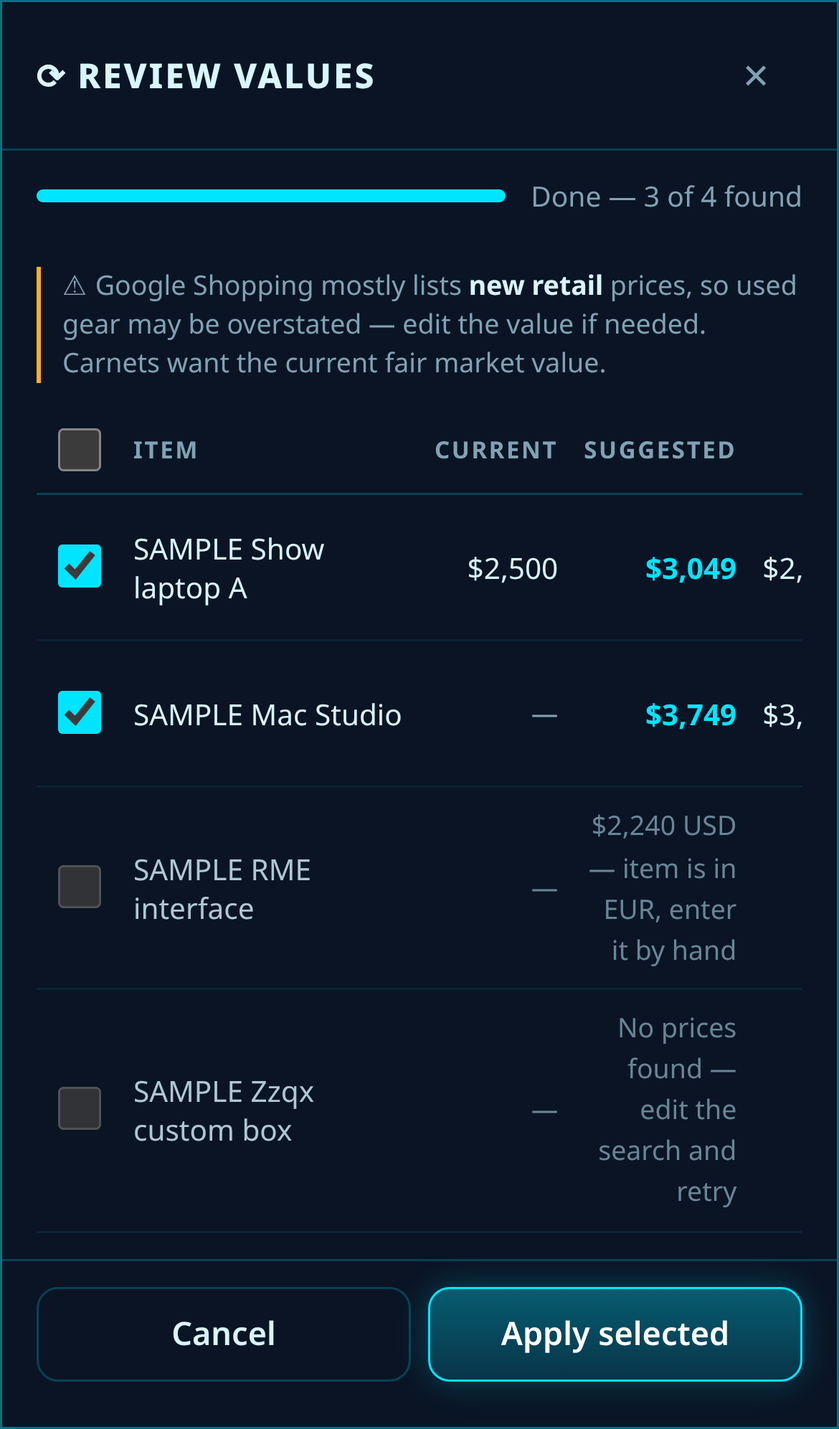
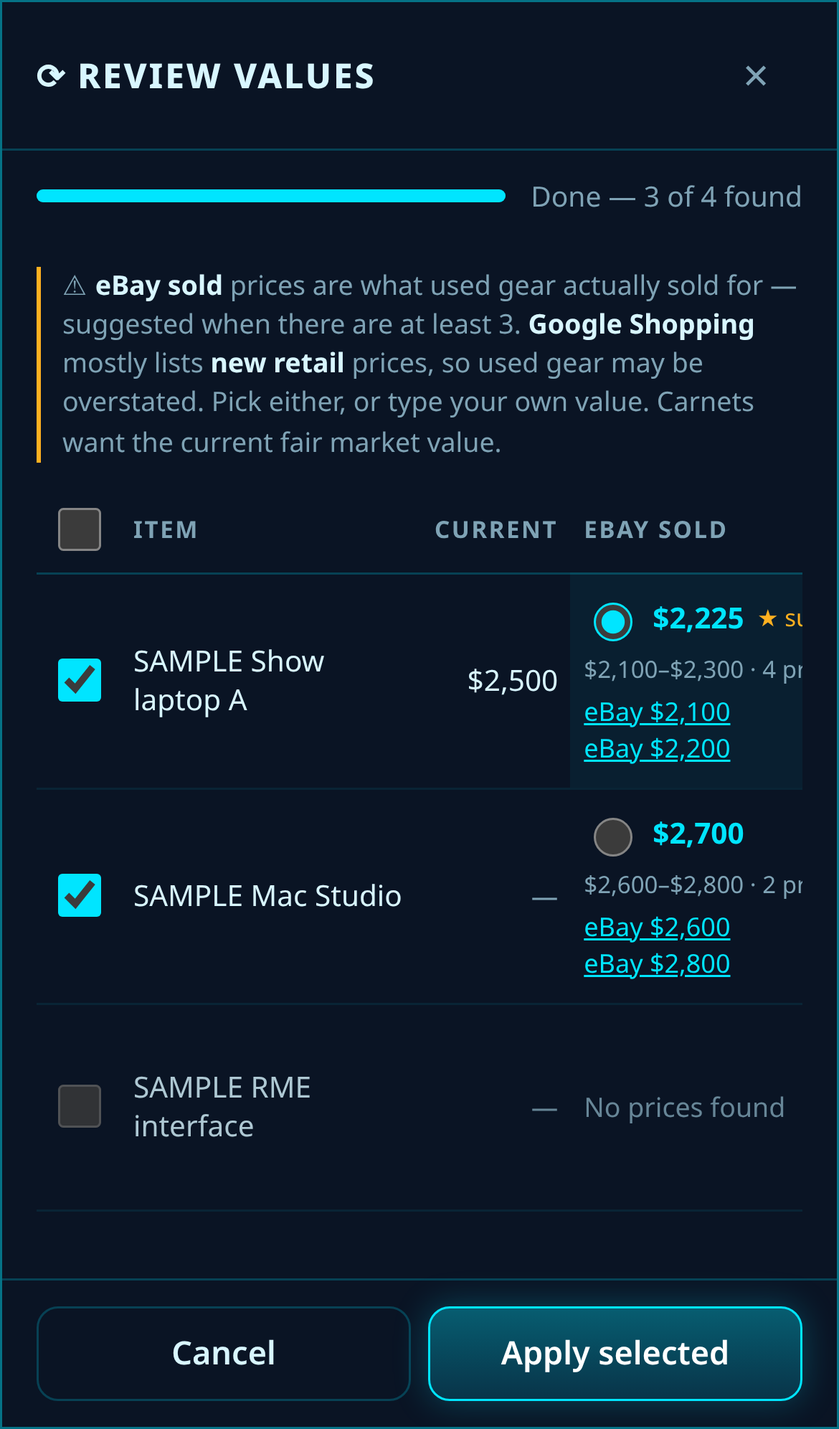
v2.3.0: two price sources (eBay sold + Google new), source toggle, pick/own value in review, README, zip, screenshots

diff --git a/js/app.js b/js/app.js
@@ -294,7 +294,7 @@ function openItemEditor(item, isNew = false, { returnTo = null } = {}) {
       ${f('vendor', 'Vendor', 'placeholder="Store / seller" list="dl-vendors" autocomplete="off"')}
       ${f('currentValue', 'Current value (each) — overrides price on carnets', 'type="number" inputmode="decimal" step="0.01" min="0" placeholder="Defaults to purchase price"', 'span2')}
       <div class="span2" style="align-self:center"><p class="hint">Carnets need the <b>current fair market value</b>, not what you paid. Leave blank to use the purchase price.</p>
-        <div class="row wrap" style="margin-top:6px"><button class="btn sm" type="button" data-act="fmvItem" ${readOnly() ? 'disabled' : ''}>⟳ Look up value</button><span class="hint">1 SerpApi search · you review first</span></div>
+        <div class="row wrap" style="margin-top:6px"><button class="btn sm" type="button" data-act="fmvItem" ${readOnly() ? 'disabled' : ''}>⟳ Look up value</button><span class="hint">eBay sold + Google · you review first</span></div>
         <p class="hint fmvinfo" id="fmvInfo"></p></div>
     </div></div>
     <div class="section"><div class="lbl">Carnet / customs</div><div class="grid4">
@@ -326,14 +326,15 @@ const FMV_ERR = {
   bad_key: 'SerpApi rejected the API key — check the SERPAPI_KEY secret.', quota: 'SerpApi search quota used up for this month.',
   mfa_required: 'Two-factor verification is required — sign out and back in.', unauthorized: 'Session expired — sign in again.',
   timeout: 'SerpApi timed out — retry.', upstream: 'SerpApi error — retry later.', skipped: 'Skipped (lookups stopped).', bad_item: 'Empty search text.',
-  network: 'Could not reach the lookup function.',
+  network: 'Could not reach the lookup function.', no_results: 'No listings found', sold_unavailable: 'Sold listings unavailable (eBay restricts them)',
 };
 const fmvErrText = c => FMV_ERR[c] || esc(c || 'Lookup failed');
+let fmvSrcPref = ['ebay_sold', 'google_new'];
 function setFmvButtons() { $$('[data-act=fmvOpen],[data-act=fmvItem]').forEach(b => { b.disabled = readOnly(); b.title = readOnly() ? 'Needs a connection' : ''; }); }
 /** Call fmv-lookup for [{item_id, query}] (≤ MAX_PER_CALL). Returns { results } or throws { code }. */
-async function fmvInvoke(list) {
+async function fmvInvoke(list, sources) {
   if (isOffline() || !sb) throw Object.assign(new Error('offline'), { code: 'network' });
-  const { data, error } = await sb.functions.invoke('fmv-lookup', { body: { items: list } });
+  const { data, error } = await sb.functions.invoke('fmv-lookup', { body: { items: list, sources } });
   if (error) {
     let code = 'network', body = null;
     try { body = await error.context?.json?.(); } catch { /* not json */ }
@@ -342,27 +343,29 @@ async function fmvInvoke(list) {
   }
   return data;
 }
-async function fmvRunRows(rows, onProgress) {
-  let done = 0;
-  for (let ix = 0; ix < rows.length; ix += Fmv.MAX_PER_CALL) {
-    const batch = rows.slice(ix, ix + Fmv.MAX_PER_CALL).filter(r => r.query);
-    rows.slice(ix, ix + Fmv.MAX_PER_CALL).filter(r => !r.query).forEach(r => { r.res = { error: 'bad_item' }; });
+const fmvPrep = (r, x, at) => { r.res = { ...x, checked_at: at }; r.pick = x?.suggested || null; r.checked = !!r.pick; };
+async function fmvRunRows(rows, sources, onProgress) {
+  const N = Fmv.MAX_PER_CALL;
+  for (let ix = 0; ix < rows.length; ix += N) {
+    const chunk = rows.slice(ix, ix + N), batch = chunk.filter(r => r.query);
+    chunk.filter(r => !r.query).forEach(r => { r.res = { error: 'bad_item' }; });
     if (batch.length) {
       try {
-        const data = await fmvInvoke(batch.map(r => ({ item_id: r.id, query: r.query })));
+        const data = await fmvInvoke(batch.map(r => ({ item_id: r.id, query: r.query })), sources);
         const by = new Map((data?.results || []).map(x => [x.item_id, x]));
-        batch.forEach(r => { r.res = by.get(r.id) || { error: 'upstream' }; r.res.checked_at = data?.checked_at; });
+        batch.forEach(r => fmvPrep(r, by.get(r.id) || { error: 'upstream' }, data?.checked_at));
       } catch (e) {
         batch.forEach(r => { r.res = { error: e.code }; });
-        if (['missing_key', 'mfa_required', 'unauthorized', 'network'].includes(e.code)) { rows.slice(ix + Fmv.MAX_PER_CALL).forEach(r => { r.res = { error: e.code }; }); onProgress(rows.length, e.code); return e.code; }
+        if (['missing_key', 'mfa_required', 'unauthorized', 'network'].includes(e.code)) { rows.slice(ix + N).forEach(r => { r.res = { error: e.code }; }); onProgress(rows.length); return e.code; }
       }
     }
-    done = Math.min(rows.length, ix + Fmv.MAX_PER_CALL); onProgress(done);
-    if (rows.slice(0, done).some(r => r.res?.error === 'quota' || r.res?.error === 'bad_key')) { rows.slice(done).forEach(r => { r.res = { error: 'skipped' }; }); onProgress(rows.length); return 'stopped'; }
+    onProgress(Math.min(rows.length, ix + N));
+    const stop = rows.slice(0, ix + N).find(r => r.res?.stop)?.res.stop;
+    if (stop) { rows.slice(ix + N).forEach(r => { r.res = { error: 'skipped' }; }); onProgress(rows.length); return stop; }
   }
   return null;
 }
-const FMV_NOTE = '<p class="hint fmvnote">⚠ Google Shopping mostly lists <b>new retail</b> prices, so used gear may be overstated — edit the value if needed. Carnets want the current fair market value.</p>';
+const FMV_NOTE = '<p class="hint fmvnote">⚠ <b>eBay sold</b> prices are what used gear actually sold for — suggested when there are at least 3. <b>Google Shopping</b> mostly lists <b>new retail</b> prices, so used gear may be overstated. Pick either, or type your own value. Carnets want the current fair market value.</p>';
 function fmvOpen() {
   const all = S.items, filt = filteredItems(), noVal = S.items.filter(i => i.currentValue == null);
   const o = openLayer(`<div class="sheet-h"><div class="title">⟳ UPDATE VALUES</div><button class="iconbtn" data-close aria-label="Close">✕</button></div>
@@ -372,63 +375,77 @@ function fmvOpen() {
       <label class="radio"><input type="radio" name="fmvScope" value="novalue"> Items without a current value <small>(${noVal.length})</small></label>
       <label class="radio"><input type="checkbox" id="fmvInstalled"> Include parts marked <b>installed</b> (RAM, drives…)</label>
       <label class="radio"><input type="checkbox" id="fmvInactive"> Include sold / retired gear</label></div>
+    <div class="section"><div class="lbl">Price sources</div>
+      <label class="radio"><input type="checkbox" data-fmvsrc="ebay_sold" ${fmvSrcPref.includes('ebay_sold') ? 'checked' : ''}> eBay sold listings <small>(used — what it actually sold for)</small></label>
+      <label class="radio"><input type="checkbox" data-fmvsrc="google_new" ${fmvSrcPref.includes('google_new') ? 'checked' : ''}> Google Shopping <small>(mostly new retail)</small></label></div>
     <p class="hint" id="fmvCount"></p>
-    <p class="hint">Each item uses <b>1 SerpApi search</b>; the free plan allows about <b>100 searches a month</b>. Nothing changes until you review and apply.</p>
-    ${FMV_NOTE}
+    <p class="hint">Each source costs <b>1 SerpApi search per item</b> (both = 2 per item); the free plan allows about <b>100 searches a month</b>. Nothing changes until you review and apply.</p>
     <div class="row"><button class="btn ghost grow" data-close>Cancel</button><button class="btn primary grow" id="fmvGo">Look up values</button></div>`, { cls: 'small' });
+  const srcs = () => $$('[data-fmvsrc]:checked', o).map(x => x.dataset.fmvsrc);
   const pick = () => {
     const sc = $('input[name=fmvScope]:checked', o).value, inst = $('#fmvInstalled', o).checked, inact = $('#fmvInactive', o).checked;
     return (sc === 'filtered' ? filt : sc === 'novalue' ? noVal : all).filter(i => (inst || P.partTypeOf(i) !== 'installed') && (inact || inService(i)));
   };
-  const upd = () => { const n = pick().length; $('#fmvCount', o).innerHTML = `<b>${plural(n, 'item')}</b> → ${n} search${n === 1 ? '' : 'es'}`; $('#fmvGo', o).disabled = !n; };
+  const upd = () => { const n = pick().length, k = Fmv.searchesPerItem(srcs()), m = n * k; $('#fmvCount', o).innerHTML = `<b>${plural(n, 'item')}</b> × ${k} = <b>${m} search${m === 1 ? '' : 'es'}</b>`; $('#fmvGo', o).disabled = !n || !k; };
   o.addEventListener('change', upd); upd();
   o.addEventListener('click', e => {
     if (e.target.closest('[data-close]')) return closeLayer(o);
-    if (e.target.closest('#fmvGo')) { const list = pick(); closeLayer(o, true); fmvReview(list.map(i => ({ id: i.id, query: Fmv.buildQuery(i), checked: false, res: null }))); }
+    if (e.target.closest('#fmvGo')) { const list = pick(); fmvSrcPref = srcs(); closeLayer(o, true); fmvReview(list.map(i => ({ id: i.id, query: Fmv.buildQuery(i), res: null })), null, fmvSrcPref); }
   });
 }
-/** Review table. rows: [{id, query, res, checked}]. single = { d } when launched from the editor (applies to the draft). */
-function fmvReview(rows, single = null) {
+/** Review table. rows: [{id, query, res, pick, custom, checked}]. single = { d } when launched from the editor (applies to the draft). */
+function fmvReview(rows, single = null, sources = fmvSrcPref) {
   const item = r => (single ? single.d : itemById(r.id));
+  const usd = it => (it.currency || 'USD') === 'USD';
+  const has = (x, k) => !!(x && x[k] && !x[k].error && x[k].median != null);
+  const chosen = r => { const x = r.res; if (!x || x.error && !x.suggested) return null; if (r.pick === 'manual') return Store.parseNum(r.custom); return has(x, r.pick) ? Fmv.applyValue(x[r.pick].median) : null; };
+  const fmvOk = r => { const it = item(r); return !!(it && usd(it) && chosen(r) != null && chosen(r) >= 0); };
   const o = openLayer(`<div class="sheet-h"><div class="title">⟳ REVIEW VALUES</div><button class="iconbtn" data-close aria-label="Close">✕</button></div>
     <div id="fmvProg" class="fmvprog"><div class="bar"><i style="width:0%"></i></div><span>Looking up 0 / ${rows.length}…</span></div>
     <div id="fmvMsg"></div>${FMV_NOTE}
-    <div class="fmvwrap"><table class="fmvt"><thead><tr><th><input type="checkbox" id="fmvAll" aria-label="Select all"></th><th>Item</th><th class="r">Current</th><th class="r">Suggested</th><th class="r">Range</th><th class="r">#</th><th>Sources</th><th>Search</th></tr></thead><tbody id="fmvBody"></tbody></table></div>
+    <div class="fmvwrap"><table class="fmvt"><thead><tr><th><input type="checkbox" id="fmvAll" aria-label="Select all"></th><th>Item</th><th class="r">Current</th>${sources.includes('ebay_sold') ? '<th>eBay sold</th>' : ''}${sources.includes('google_new') ? '<th>Google new</th>' : ''}<th>Use</th><th>Search</th></tr></thead><tbody id="fmvBody"></tbody></table></div>
     <div class="sheet-f"><span class="hint grow" id="fmvSel"></span><button class="btn ghost" data-close>Cancel</button><button class="btn primary" id="fmvApply" disabled>Apply selected</button></div>`, { cls: 'wide' });
   o._rows = rows;
-  const fmvOk = r => { const it = item(r); return !!(it && r.res && !r.res.error && r.res.median != null && (it.currency || 'USD') === 'USD'); };
+  const srcCell = (r, k) => {
+    const x = r.res; if (!x || r.busy) return '<td class="sc"><span class="hint">…</span></td>';
+    const b = x[k]; if (!b) return `<td class="sc">${x.error ? `<span class="fmverr">${fmvErrText(x.error)}</span>` : '<span class="hint">—</span>'}</td>`;
+    if (b.error || b.median == null) return `<td class="sc"><span class="hint">${b.error ? fmvErrText(b.error) : 'No prices found'}</span></td>`;
+    const links = (b.sources || []).map(s => `<a href="${esc(s.link)}" target="_blank" rel="noopener noreferrer" title="${esc(s.title)}">${esc(s.source || 'link')} ${money(s.price, 'USD', false)}</a>`).join('');
+    return `<td class="sc ${x.suggested === k ? 'sugg' : ''}"><label class="pickv"><input type="radio" name="fmvp${r.ix}" value="${k}" ${r.pick === k ? 'checked' : ''}> <b>${money(Fmv.applyValue(b.median), 'USD', false)}</b>${x.suggested === k ? ' <span class="star">★ suggested</span>' : ''}</label>
+      <small>${money(b.low, 'USD', false)}–${money(b.high, 'USD', false)} · ${plural(b.count, 'price')}</small>${links}</td>`;
+  };
   const rowHTML = (r, ix) => {
-    const it = item(r); if (!it) return '';
-    const x = r.res, busy = r.busy || !x, usd = (it.currency || 'USD') === 'USD', okRes = x && !x.error && x.median != null && usd;
-    const src = okRes ? (x.sources || []).map(s => `<a href="${esc(s.link)}" target="_blank" rel="noopener noreferrer" title="${esc(s.title)}">${esc(s.source || 'link')} ${money(s.price, 'USD', false)}</a>`).join('') : '';
-    const status = busy ? '<span class="hint">…</span>' : x.error ? `<span class="fmverr">${fmvErrText(x.error)}</span>` : x.median == null ? '<span class="hint">No prices found — edit the search and retry</span>' : !usd ? `<span class="hint">${money(x.median, 'USD', false)} USD — item is in ${esc(it.currency)}, enter it by hand</span>` : '';
-    return `<tr data-ix="${ix}" class="${okRes ? '' : 'nores'}">
-      <td><input type="checkbox" data-fmvck ${okRes ? '' : 'disabled'} ${r.checked && okRes ? 'checked' : ''} aria-label="Apply"></td>
+    r.ix = ix; const it = item(r); if (!it) return '';
+    const x = r.res, done = x && !r.busy, ok = done && fmvOk(r);
+    const note = !done ? '' : !usd(it) ? `<span class="hint">Item is in ${esc(it.currency)} — prices are USD, enter by hand</span>` : x.error && !x.suggested && !x.ebay_sold && !x.google_new ? '' : !x.suggested ? '<span class="hint">No prices — edit the search and retry, or type a value</span>' : '';
+    return `<tr data-ix="${ix}" class="${ok ? '' : 'nores'}">
+      <td><input type="checkbox" data-fmvck ${ok ? '' : 'disabled'} ${r.checked && ok ? 'checked' : ''} aria-label="Apply"></td>
       <td class="nm">${esc(itemTitle(it))}${it.fmv?.checkedAt ? `<small>checked ${esc(fmvDate(it.fmv.checkedAt))}</small>` : ''}</td>
       <td class="r">${it.currentValue != null ? money(Store.parseNum(it.currentValue), it.currency, false) : '<span class="hint">—</span>'}</td>
-      <td class="r sug">${okRes ? money(Fmv.applyValue(x.median), 'USD', false) : status}</td>
-      <td class="r">${okRes ? `${money(x.low, 'USD', false)}–${money(x.high, 'USD', false)}` : ''}</td>
-      <td class="r">${okRes ? x.count : ''}</td>
-      <td class="src">${src}</td>
-      <td class="q"><div class="joined"><input class="inp" data-fmvq value="${esc(r.query)}" maxlength="${Fmv.MAX_QUERY}" aria-label="Search text"><button class="btn sm ghost" data-fmvretry title="Search again (1 search)">↻</button></div></td></tr>`;
+      ${sources.includes('ebay_sold') ? srcCell(r, 'ebay_sold') : ''}${sources.includes('google_new') ? srcCell(r, 'google_new') : ''}
+      <td class="use">${done && usd(it) ? `<label class="pickv"><input type="radio" name="fmvp${ix}" value="manual" ${r.pick === 'manual' ? 'checked' : ''}> Own</label><input class="inp sm" data-fmvcustom type="number" min="0" step="1" inputmode="numeric" value="${esc(r.custom ?? '')}" placeholder="$" aria-label="Your value"><div class="usev">${ok ? `→ <b>${money(chosen(r), 'USD', false)}</b>` : ''}</div>` : ''}${note}</td>
+      <td class="q"><div class="joined"><input class="inp" data-fmvq value="${esc(r.query)}" maxlength="${Fmv.MAX_QUERY}" aria-label="Search text"><button class="btn sm ghost" data-fmvretry title="Search again (${Fmv.searchesPerItem(sources)} search${Fmv.searchesPerItem(sources) === 1 ? '' : 'es'})">↻</button></div></td></tr>`;
   };
-  const paint = () => {
-    $('#fmvBody', o).innerHTML = rows.map(rowHTML).join('');
-    const sel = rows.filter(r => r.checked && fmvOk(r));
-    $('#fmvSel', o).textContent = `${sel.length} of ${rows.length} selected`; $('#fmvApply', o).disabled = !sel.length || readOnly();
-  };
+  const foot = () => { const sel = rows.filter(r => r.checked && fmvOk(r)); $('#fmvSel', o).textContent = `${sel.length} of ${rows.length} selected`; $('#fmvApply', o).disabled = !sel.length || readOnly(); };
+  const paint = () => { $('#fmvBody', o).innerHTML = rows.map(rowHTML).join(''); foot(); };
+  const paintRow = r => { const tr = $(`#fmvBody tr[data-ix="${r.ix}"]`, o); if (tr) tr.outerHTML = rowHTML(r, r.ix); foot(); };
   const msg = code => { $('#fmvMsg', o).innerHTML = code ? `<p class="warn">${fmvErrText(code)}</p>` : ''; };
-  const prog = (n, code) => {
+  const prog = n => {
     const p = $('#fmvProg', o); if (!p) return;
-    $('i', p).style.width = `${Math.round(100 * n / rows.length)}%`; $('span', p).textContent = n >= rows.length ? `Done — ${rows.filter(r => r.res && !r.res.error && r.res.median != null).length} of ${rows.length} found` : `Looking up ${n} / ${rows.length}…`;
-    rows.forEach(r => { if (r.res && r.checked == null) r.checked = fmvOk(r); }); if (code) msg(code); paint();
+    $('i', p).style.width = `${Math.round(100 * n / rows.length)}%`; $('span', p).textContent = n >= rows.length ? `Done — ${rows.filter(r => r.res?.suggested).length} of ${rows.length} found` : `Looking up ${n} / ${rows.length}…`;
+    paint();
   };
-  rows.forEach(r => { r.checked = null; });
-  paint(); fmvRunRows(rows, prog).then(code => { if (code && code !== 'stopped') msg(code); else if (code === 'stopped') msg(rows.find(r => r.res?.error === 'quota') ? 'quota' : 'bad_key'); });
-  o.addEventListener('input', e => { const q = e.target.closest('[data-fmvq]'); if (q) rows[+q.closest('tr').dataset.ix].query = Fmv.cleanQuery(q.value); });
+  paint(); fmvRunRows(rows, sources, prog).then(code => { if (code) msg(code); });
+  o.addEventListener('input', e => {
+    const q = e.target.closest('[data-fmvq]'); if (q) { rows[+q.closest('tr').dataset.ix].query = Fmv.cleanQuery(q.value); return; }
+    const c = e.target.closest('[data-fmvcustom]');
+    if (c) { const r = rows[+c.closest('tr').dataset.ix]; r.custom = c.value; r.pick = 'manual'; r.checked = c.value !== ''; const tr = c.closest('tr'); $('input[value=manual]', tr).checked = true; $('[data-fmvck]', tr).disabled = !fmvOk(r); $('[data-fmvck]', tr).checked = r.checked && fmvOk(r); $('.usev', tr).innerHTML = fmvOk(r) ? `→ <b>${money(chosen(r), 'USD', false)}</b>` : ''; foot(); }
+  });
   o.addEventListener('change', e => {
     if (e.target.id === 'fmvAll') { rows.forEach(r => { r.checked = e.target.checked; }); return paint(); }
-    const c = e.target.closest('[data-fmvck]'); if (c) { rows[+c.closest('tr').dataset.ix].checked = c.checked; paint(); }
+    const tr = e.target.closest('tr[data-ix]'); if (!tr) return; const r = rows[+tr.dataset.ix];
+    if (e.target.matches('[data-fmvck]')) { r.checked = e.target.checked; return foot(); }
+    if (e.target.type === 'radio') { r.pick = e.target.value; r.checked = fmvOk(r); paintRow(r); if (r.pick === 'manual') $(`#fmvBody tr[data-ix="${r.ix}"] [data-fmvcustom]`, o)?.focus(); }
   });
   o.addEventListener('click', async e => {
     if (e.target.closest('[data-close]')) return closeLayer(o);
@@ -436,18 +453,20 @@ function fmvReview(rows, single = null) {
     if (rb) {
       if (readOnly()) return toast('Offline — reconnect to look up values');
       const r = rows[+rb.closest('tr').dataset.ix]; if (!r.query) return toast('Enter search text first');
-      r.busy = true; paint(); msg('');
-      try { const d = await fmvInvoke([{ item_id: r.id, query: r.query }]); r.res = { ...(d.results || [])[0], checked_at: d.checked_at }; }
+      r.busy = true; paintRow(r); msg('');
+      try { const d = await fmvInvoke([{ item_id: r.id, query: r.query }], sources); fmvPrep(r, (d.results || [])[0] || { error: 'upstream' }, d.checked_at); if (r.res.stop) msg(r.res.stop); }
       catch (er) { r.res = { error: er.code }; msg(er.code); }
-      r.busy = false; r.checked = fmvOk(r); paint(); return;
+      r.busy = false; paintRow(r); return;
     }
     if (e.target.closest('#fmvApply')) {
       if (readOnly()) return toast('Offline — read-only. Reconnect to make changes.');
       const sel = rows.filter(r => r.checked && fmvOk(r)); let n = 0;
       for (const r of sel) {
-        const it = item(r); if (!it) continue; const x = r.res;
-        it.currentValue = Fmv.applyValue(x.median);
-        it.fmv = Store.sanitizeFmv({ value: x.median, low: x.low, high: x.high, count: x.count, checkedAt: x.checked_at || new Date().toISOString(), query: r.query, sources: x.sources });
+        const it = item(r); if (!it) continue; const x = r.res, b = r.pick !== 'manual' ? x[r.pick] : null, v = chosen(r);
+        const bySource = Object.fromEntries(Fmv.SOURCES.filter(k => has(x, k)).map(k => [k, { median: x[k].median, low: x[k].low, high: x[k].high, count: x[k].count, sources: x[k].sources }]));
+        it.currentValue = v;
+        it.fmv = Store.sanitizeFmv({ value: b ? b.median : v, low: b ? b.low : null, high: b ? b.high : null, count: b ? b.count : 0, pick: r.pick,
+          checkedAt: x.checked_at || new Date().toISOString(), query: r.query, sources: b ? b.sources : [], bySource });
         if (!single) it.updated = Date.now();
         n++;
       }
@@ -458,13 +477,14 @@ function fmvReview(rows, single = null) {
   });
 }
 function renderFmvInfo() {
-  const el = $('#fmvInfo'); if (!el || !ui.edit) return; const f = ui.edit.d.fmv;
-  el.innerHTML = f ? `Value checked ${esc(fmvDate(f.checkedAt))}: median ${money(f.value, 'USD', false)} (${money(f.low, 'USD', false)}–${money(f.high, 'USD', false)}, ${plural(f.count, 'result')})${f.sources?.length ? ' · ' + f.sources.filter(s => s.link).map(s => `<a href="${esc(s.link)}" target="_blank" rel="noopener noreferrer">${esc(s.source || 'link')}</a>`).join(' ') : ''}` : '';
+  const el = $('#fmvInfo'); if (!el || !ui.edit) return; const f = ui.edit.d.fmv; if (!f) { el.innerHTML = ''; return; }
+  const part = k => { const b = f.bySource?.[k]; return b ? `${Fmv.SOURCE_LABEL[k]} ${money(b.median, 'USD', false)} (${money(b.low, 'USD', false)}–${money(b.high, 'USD', false)}, ${plural(b.count, 'price')})` : ''; };
+  el.innerHTML = `Value checked ${esc(fmvDate(f.checkedAt))} · used ${f.pick === 'manual' ? 'your own value' : esc(Fmv.SOURCE_LABEL[f.pick] || '')}${['ebay_sold', 'google_new'].map(part).filter(Boolean).map(t => ' · ' + t).join('')}${f.sources?.length ? '<br>' + f.sources.filter(s => s.link).map(s => `<a href="${esc(s.link)}" target="_blank" rel="noopener noreferrer">${esc(s.source || 'link')}</a>`).join(' ') : ''}`;
 }
 function fmvItem() {
   const E = ui.edit; if (!E) return;
   const q = Fmv.buildQuery(E.d); if (!q) return toast('Enter a make, model or name first');
-  fmvReview([{ id: E.d.id, query: q, res: null }], { d: E.d });
+  fmvReview([{ id: E.d.id, query: q, res: null }], { d: E.d }, fmvSrcPref);
 }
 // ----- parts (v2.2) -----
 const editSig = E => JSON.stringify([E.d, [...E.kits].sort(), E.newAtts, E.pendingDel]);

diff --git a/css/app.css b/css/app.css
@@ -387,3 +387,10 @@ body.readonly #addBtn, body.readonly [data-act=newItem], body.readonly [data-act
 .fmverr { color: var(--amber); font-size: 12.5px; } .fmverr a, .warn a, .fmvinfo a { color: var(--cyan); }
 .fmvinfo { margin-top: 6px; } .fmvinfo a { margin-right: 6px; }
 .g-val .fmvchk { color: var(--dim); font-size: 10.5px; }
+.fmvt .sc { min-width: 150px; } .fmvt .sc small { display: block; color: var(--dim); font-size: 11px; margin: 2px 0 3px; }
+.fmvt .sc.sugg { background: rgba(0, 229, 255, .06); }
+.fmvt .pickv { display: inline-flex; align-items: center; gap: 6px; cursor: pointer; white-space: nowrap; } .fmvt .pickv b { color: var(--cyan); }
+.fmvt .pickv input[type=radio] { width: 18px; height: 18px; accent-color: var(--cyan); }
+.fmvt .star { color: var(--amber); font-size: 11px; }
+.fmvt .use { min-width: 110px; } .fmvt .use .inp.sm { min-height: 34px; width: 96px; font-size: 13px; margin-top: 4px; } .fmvt .usev { font-size: 12px; margin-top: 3px; } .fmvt .usev b { color: var(--cyan); }
+.fmvt .sc a { display: block; font-size: 12px; color: var(--cyan); white-space: nowrap; overflow: hidden; text-overflow: ellipsis; max-width: 170px; }

diff --git a/README.md b/README.md
@@ -132,22 +132,26 @@ which only matters for password resets. Free-plan projects pause after a week of
 
 ## Fair market value — *Update values* (v2.3)
 
-*Gear → ⟳ Update values* (or *Look up value* in an item's editor) estimates each item's current value from **Google Shopping via SerpApi**.
+*Gear → ⟳ Update values* (or *Look up value* in an item's editor) estimates each item's current value from **two SerpApi sources with one key**: **eBay sold listings** (`engine=ebay`, `_nkw`, `LH_Sold=1`, `LH_Complete=1`) and **Google Shopping** (`engine=google_shopping`, `gl=us`).
 
 1. Make a free account at https://serpapi.com and copy your **API key** (Dashboard → *Api Key*).
 2. Supabase → **Edge Functions → Secrets**: https://supabase.com/dashboard/project/ggtkglxvuxvmuqtpvlgs/functions/secrets →
    *Add new secret*: Name **`SERPAPI_KEY`**, Value = your SerpApi key → *Save*. No redeploy needed. (CLI: `supabase secrets set SERPAPI_KEY=…`.)
    Never put the key in `js/config.js` or the repo — only the Edge Function can read it, and it never returns it.
 3. In the app: choose scope (all gear / current filter / items without a current value; installed parts and sold/retired gear are skipped unless you tick
-   them), *Look up values*, then **review**: suggested median, range, number of prices, up to 5 source links. Edit a row's search text and ↻ retry,
-   untick anything you don't want, *Apply selected*. Only then is `current_value` set (median rounded to whole dollars) and the lookup stored in
-   `fmv_value / fmv_low / fmv_high / fmv_count / fmv_checked_at / fmv_sources / fmv_query`. Items show *value checked &lt;date&gt;*.
+   them) and sources (default both), *Look up values*, then **review**: per source the median, range, number of prices and up to 5 links. The
+   **suggested** value is the eBay sold median when it has ≥ 3 prices after outlier removal, else the Google median. Pick either source or type your
+   own value, edit a row's search text and ↻ retry, untick anything you don't want, *Apply selected*. Only then is `current_value` set (median rounded to whole dollars) and the lookup stored in
+   `fmv_value / fmv_low / fmv_high / fmv_count / fmv_checked_at / fmv_query`, with `fmv_sources` = `{pick, links, ebay_sold:{median,low,high,count,sources}, google_new:{…}}`. Items show *value checked &lt;date&gt;*.
 
 Notes:
-- **Quota**: 1 SerpApi search per item; the free plan is about **100 searches / month**. Lookups stop early if the quota or key fails.
+- **Quota**: 1 SerpApi search per item **per source** (both = 2 per item); the free plan is about **100 searches / month** (≈ 50 items with both). Lookups stop early if the quota or key fails.
+- **eBay sold caveat**: since Sep 2026 SerpApi lists its eBay *Sold/Complete* filters as deprecated (eBay put sold results behind a login). The
+  function only counts results that carry a sold marker; if none do it shows *Sold listings unavailable* and the Google value is suggested — the eBay
+  search is still billed, so untick eBay if that keeps happening.
 - **Accuracy**: Google Shopping mostly lists **new retail** prices, so used gear can be overstated — edit the value. Prices are USD (`gl=us`);
   items kept in another currency can't be auto-applied.
-- **How the number is made** (`js/fmv.js`, shared with the function): prices from `shopping_results`, outliers removed with a 1.5×IQR fence
+- **How the number is made** (`js/fmv.js`, shared with the function): prices from `shopping_results` / eBay `organic_results` (sponsored skipped), outliers removed with a 1.5×IQR fence
   (when ≥ 4 prices), median of the rest. The search text is make + model + name — never serials, Electromaxx numbers or "SAMPLE".
 - **Security**: `supabase/functions/fmv-lookup` is deployed with `verify_jwt = true` and additionally refuses sessions that aren't MFA-verified
   (`aal2`). It touches no database rows; the app saves what you apply. The button is disabled offline and the service worker never caches `/functions/v1/`.
